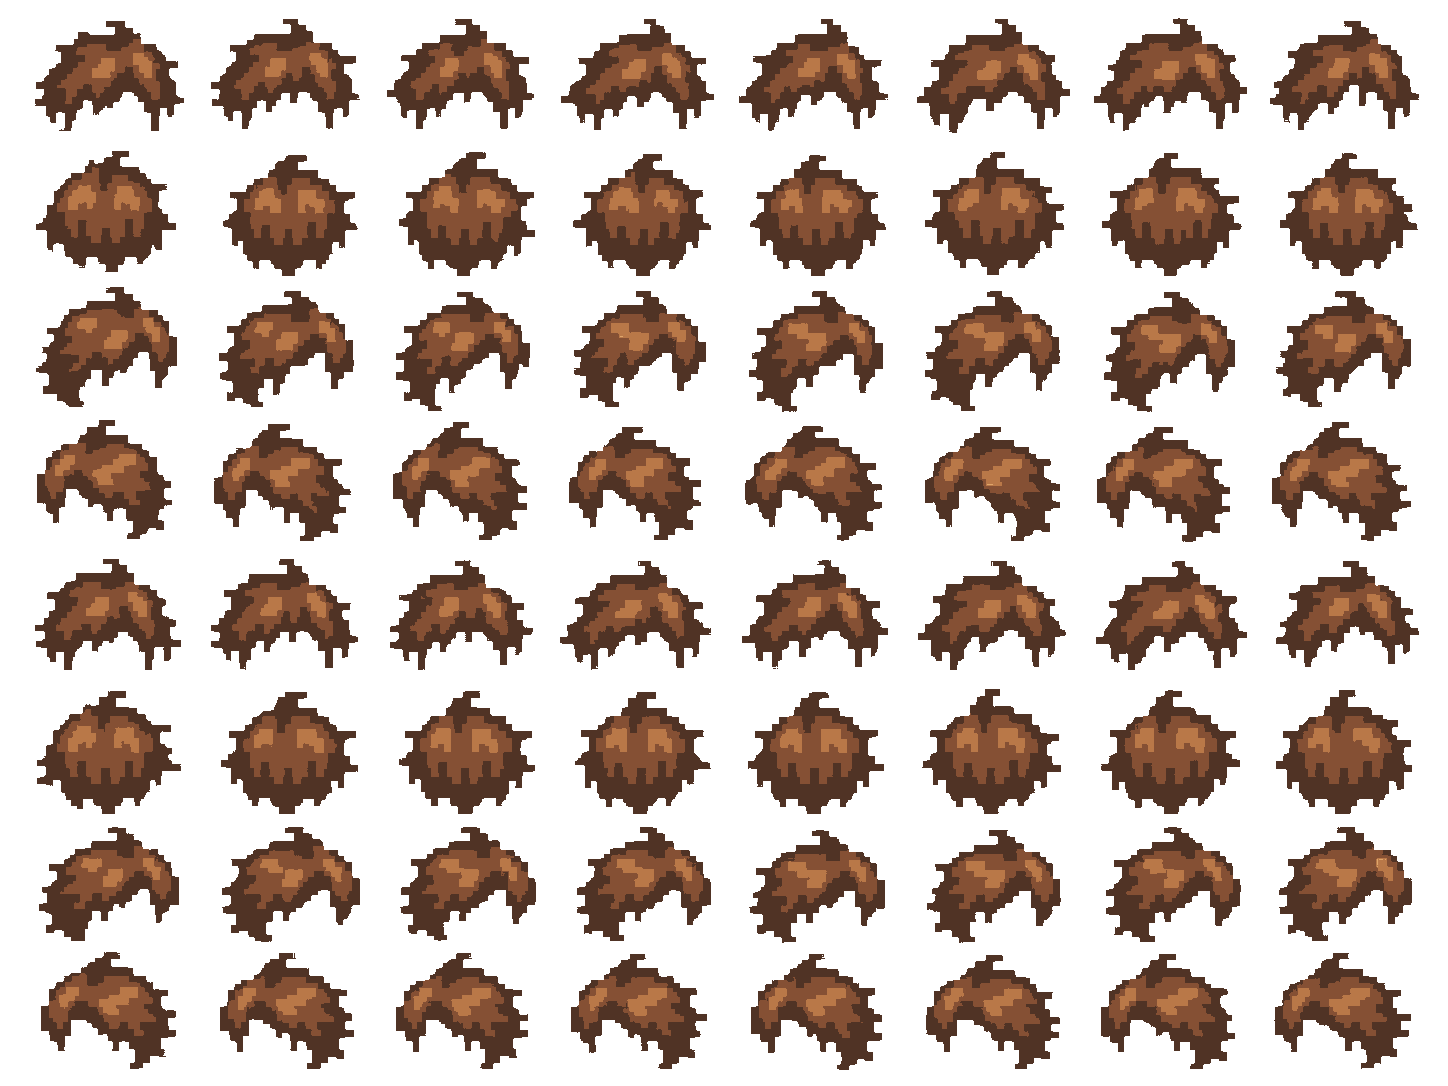
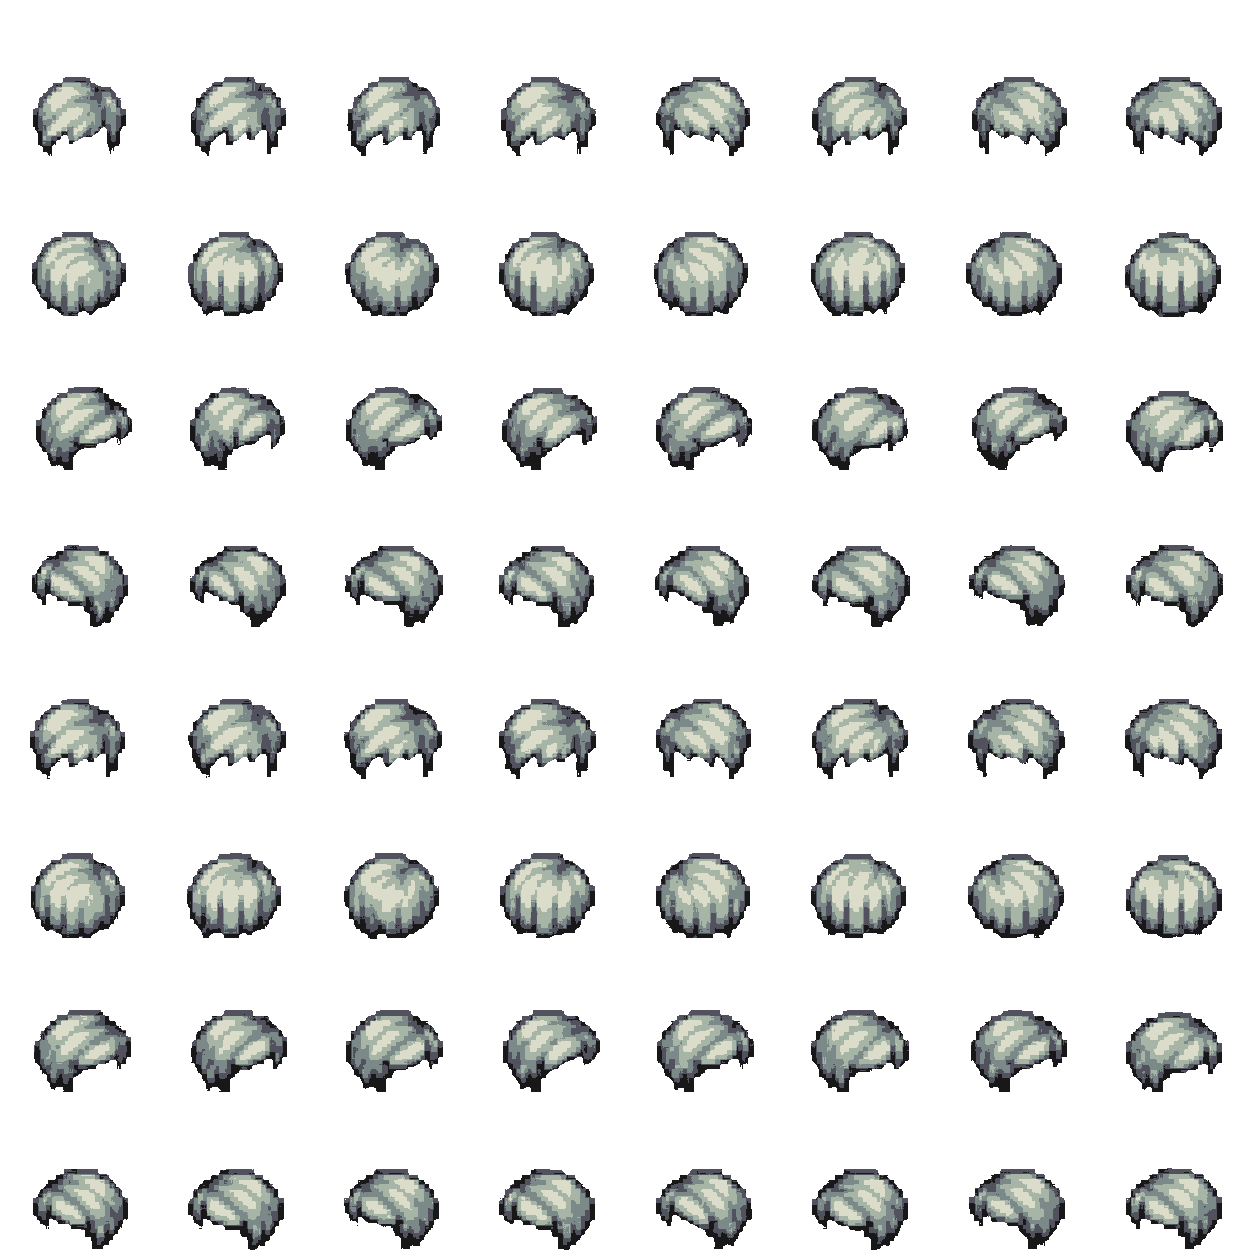
Restyle tousled hair to match native character silhouettes and palettes

diff --git a/scripts/import_tousled_hair.py b/scripts/import_tousled_hair.py
@@ -1,7 +1,8 @@
-"""Import the approved hair image into Mana Seed's 64px animation cells.
+"""Fit the restyled hair to Mana Seed's native head footprints and palettes.
 
 Run from the repository root with Pillow installed. Existing dap1 sheets supply
-only head bounds and color ramps; the hairstyle pixels come from the source PNG.
+head bounds, compact silhouettes, selective contours and all five palette colors.
+The source PNG supplies the new strand pattern.
 """
 from collections import Counter
 from pathlib import Path
@@ -10,7 +11,8 @@ from PIL import Image
 ROOT = Path(__file__).resolve().parents[1]
 ASSETS = ROOT / 'app/src/main/assets/sprites/ManaSeedCharacter'
 SOURCE = ROOT / 'art/source/tousled-hair-approved.png'
-BROWN = [(80, 51, 37), (133, 80, 52), (185, 120, 72), (223, 166, 107)]
+REFERENCE = [(24, 24, 24), (82, 82, 95), (124, 137, 137),
+             (167, 181, 167), (220, 220, 203)]
 
 
 def cell(sheet, row, column):
@@ -27,7 +29,7 @@ def load_frames():
                    round((column + 1) * source.width / 8), round((row + 1) * source.height / 8))
             image = source.crop(box)
             # Ignore the generator's nearly transparent fringe and color specks.
-            pixels = [(r, g, b, 255) if a >= 224 and r > g > b and r - g >= 10
+            pixels = [(r, g, b, 255) if a >= 224
                       else (0, 0, 0, 0) for r, g, b, a in image.getdata()]
             image.putdata(pixels)
             bounds = image.getbbox()
@@ -39,12 +41,10 @@ def load_frames():
 
 
 def palette(variant):
-    if variant == 11:
-        return BROWN  # Preserve the approved brown appearance.
     path = ASSETS / 'char_a_p1/4har' / f'char_a_p1_4har_dap1_v{variant:02d}.png'
     original = Image.open(path).convert('RGBA')
     common = Counter(p[:3] for p in original.getdata() if p[3] == 255)
-    return sorted([rgb for rgb, _ in common.most_common(4)],
+    return sorted([rgb for rgb, _ in common.most_common(5)],
                   key=lambda rgb: sum(a * b for a, b in zip(rgb, (0.2126, 0.7152, 0.0722))))
 
 
@@ -56,18 +56,30 @@ def build():
         indexed = []
         for row in range(8):
             for column in range(8):
-                bounds = cell(template, row, column).getbbox()
+                native = cell(template, row, column)
+                bounds = native.getbbox()
                 if bounds is None:
                     raise ValueError(f'Empty anchor {page}:{row}:{column}')
                 x0, y0, x1, y1 = bounds
-                # Combat uses its own head anchors. Use the corresponding facing
-                # and motion frame rather than reusing outdoor sheet coordinates.
-                source_row = row if page == 'p1' else row % 4
-                hair = frames[source_row][column].resize((x1 - x0, y1 - y0), Image.Resampling.NEAREST)
+                # Keep strand highlights stable through the animation. The native
+                # footprint and anchor follow each walking and combat head pose.
+                hair = frames[row % 4][0].resize((x1 - x0, y1 - y0), Image.Resampling.NEAREST)
                 indices = []
-                for r, g, b, a in hair.getdata():
-                    indices.append(-1 if a == 0 else min(range(4), key=lambda i:
-                                   sum((v - w) ** 2 for v, w in zip((r, g, b), BROWN[i]))))
+                for y in range(y0, y1):
+                    for x in range(x0, x1):
+                        pixel = native.getpixel((x, y))
+                        if pixel[3] < 128:
+                            indices.append(-1)
+                            continue
+                        edge = any(nx < 0 or nx >= 64 or ny < 0 or ny >= 64
+                                   or native.getpixel((nx, ny))[3] < 128
+                                   for nx, ny in ((x-1,y),(x+1,y),(x,y-1),(x,y+1)))
+                        strand = hair.getpixel((x-x0, y-y0))
+                        # The native selective contour is one actual pixel wide;
+                        # clipping to the footprint prevents halos and tall tufts.
+                        color = pixel[:3] if edge or strand[3] < 128 else strand[:3]
+                        indices.append(min(range(5), key=lambda i:
+                                       sum((v-w)**2 for v,w in zip(color,REFERENCE[i]))))
                 indexed.append((row, column, bounds, indices))
         for variant in range(14):
             ramp = palette(variant)
@@ -81,8 +93,8 @@ def build():
             result.save(target)
             assert set(result.getchannel('A').getdata()) <= {0, 255}
             assert all(cell(result, r, c).getbbox() for r in range(8) for c in range(8))
-            assert len(set(result.getdata()) - {(0, 0, 0, 0)}) <= 4
-    print('Imported 28 sheets: 64 frames each, binary alpha, four hair colors.')
+            assert len(set(result.getdata()) - {(0, 0, 0, 0)}) <= 5
+    print('Restyled 28 sheets: native head footprints, five original colors, binary alpha.')
 
 
 if __name__ == '__main__':
